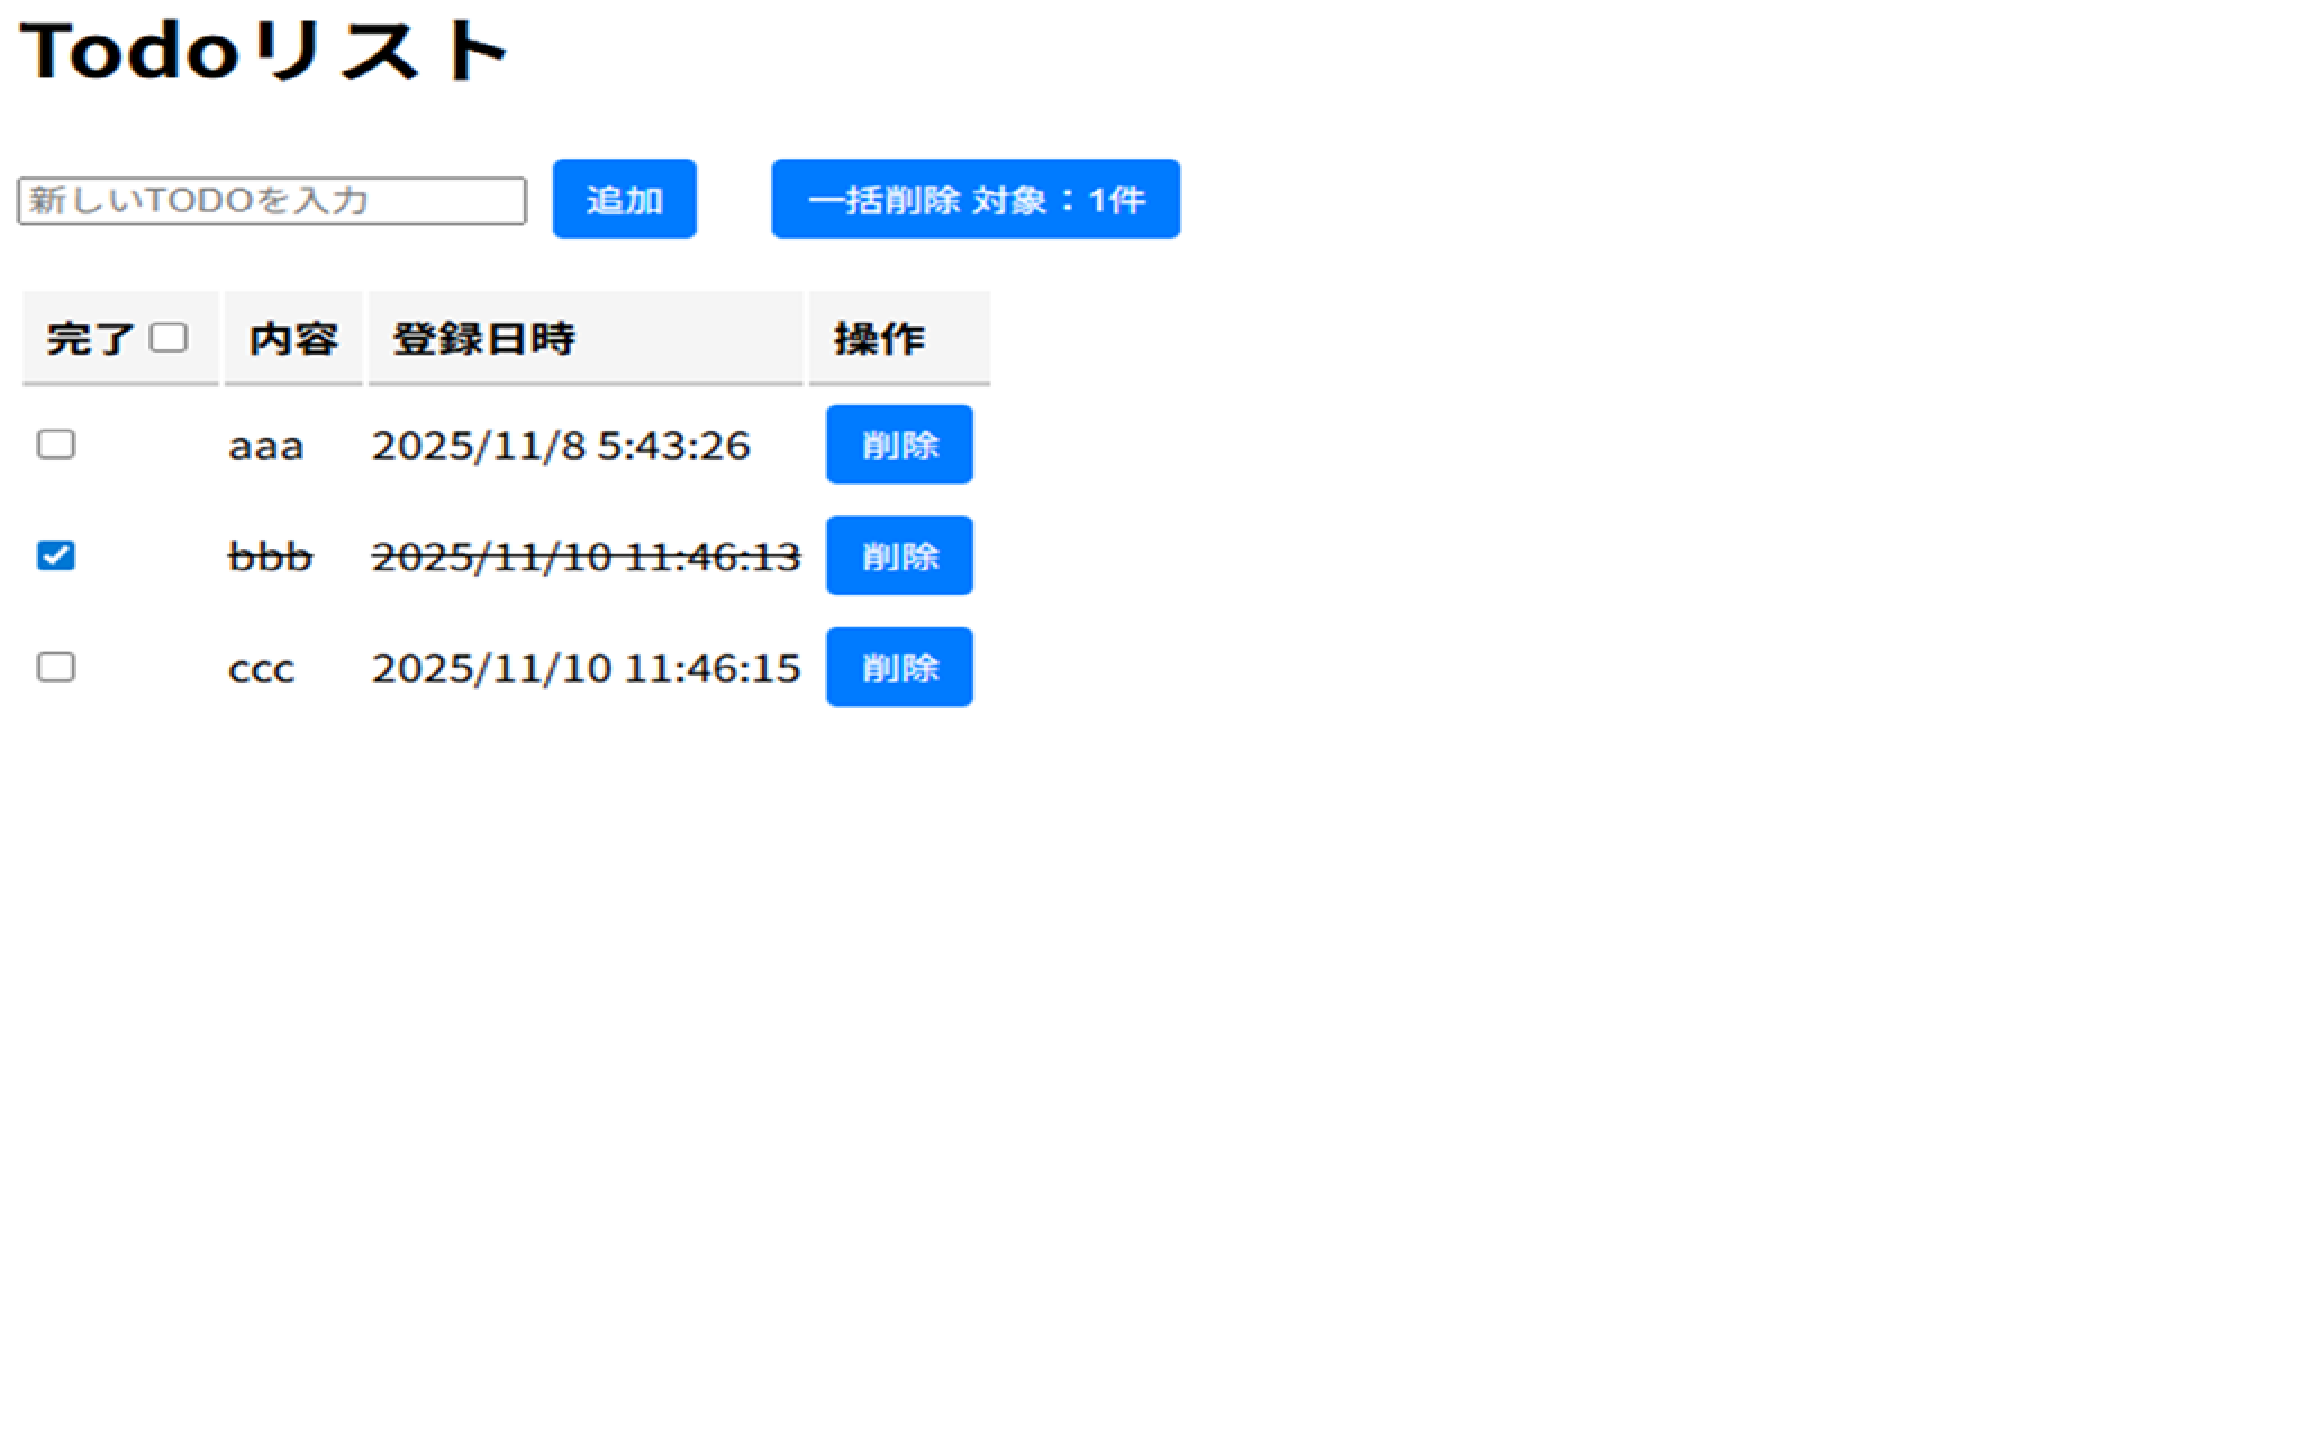
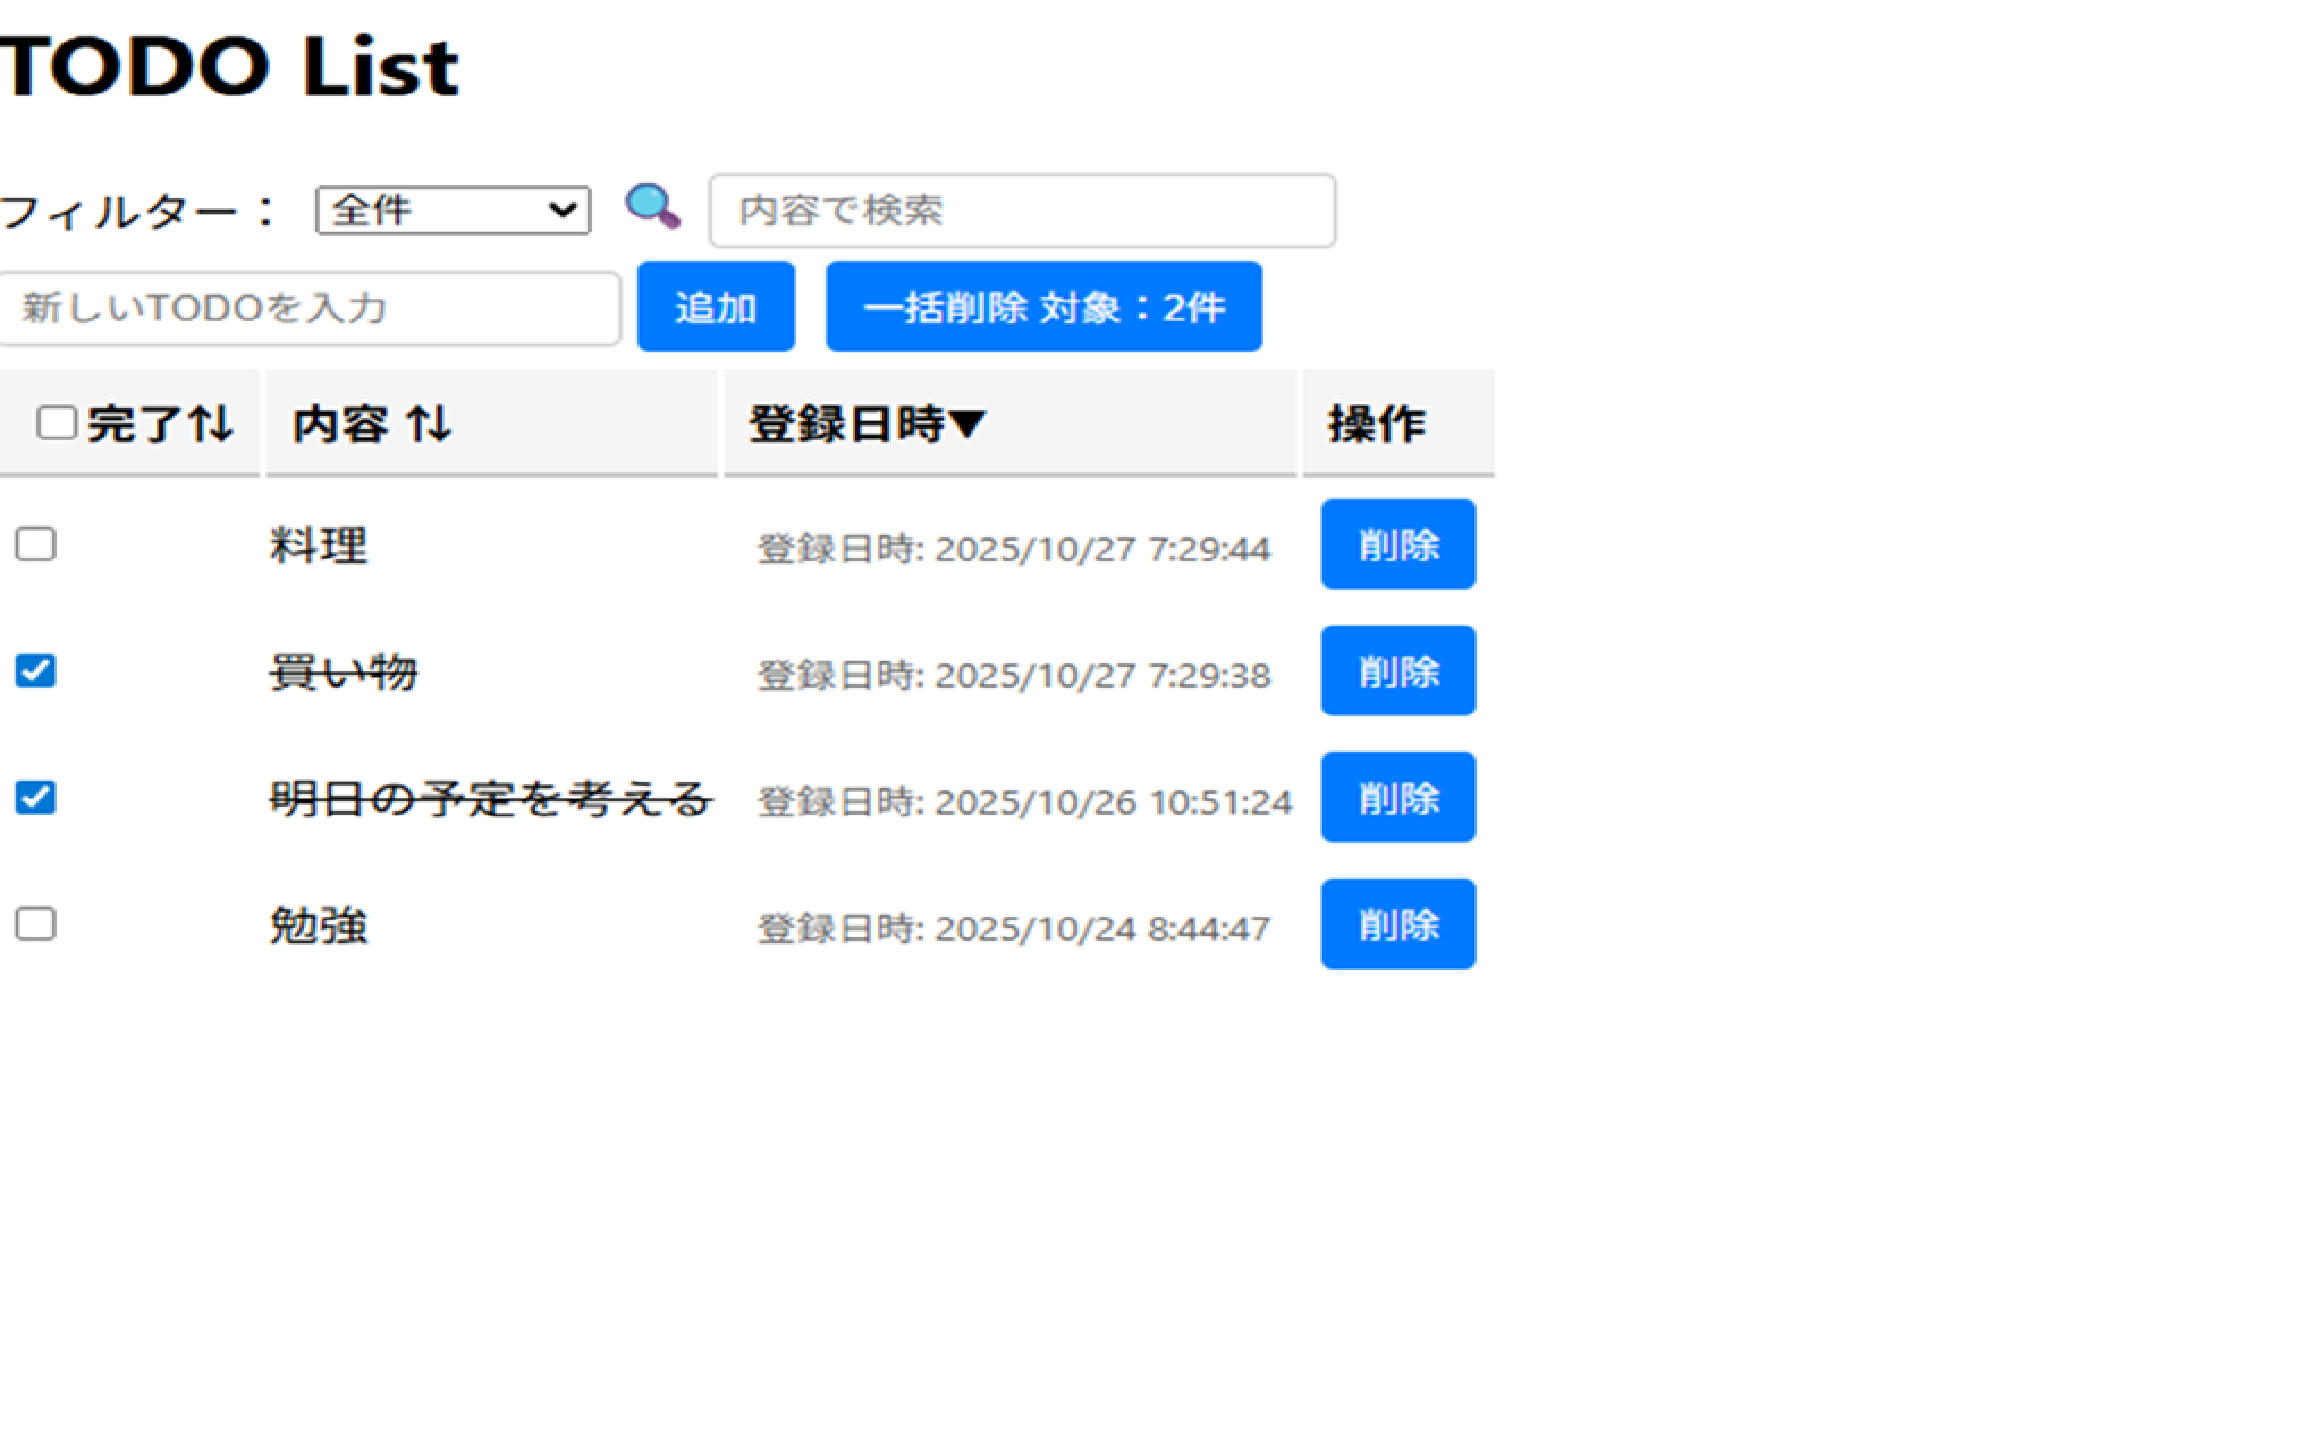
Add：フィルター機能の追加

diff --git a/js/TodoList.js b/js/TodoList.js
@@ -1,13 +1,16 @@
 // js/TodoList.js
 
+// 編集中のTODOのIDを保持
 let isEditingId = 0;
+let filterIsDone = null; // null: 全件, 0: 完了済み, 1: 未完了
+let filterText = ""; // テキストフィルター用
 
 // TODOリストの取得と表示
 async function fetchTodos() {
   try {
     const res = await fetch("api/api.php", {
       method: "POST",
-      body: new URLSearchParams({ action: "list" }),
+      body: new URLSearchParams({ action: "list", filterIsDone, filterText }),
     });
     const todos = await res.json();
     updateHeaderCheckbox(todos); // ヘッダーチェックボックスの状態更新
@@ -92,7 +95,7 @@ async function addTodo(text) {
     method: "POST",
     body: new URLSearchParams({ action: "add", text }),
   });
-  isEditingId = 0;
+  isEditingId = 0; // 編集状態をリセット
   fetchTodos(); // TODOリストの取得と表示
 }
 
@@ -101,7 +104,7 @@ async function deleteTodo(id) {
     method: "POST",
     body: new URLSearchParams({ action: "delete", id }),
   });
-  isEditingId = 0;
+  isEditingId = 0; // 編集状態をリセット
   fetchTodos(); // TODOリストの取得と表示
 }
 
@@ -110,7 +113,7 @@ async function toggleTodo(id) {
     method: "POST",
     body: new URLSearchParams({ action: "toggle", id }),
   });
-  isEditingId = 0;
+  isEditingId = 0; // 編集状態をリセット
   fetchTodos(); // TODOリストの取得と表示
 }
 
@@ -119,7 +122,7 @@ async function updateTodo(id, text) {
     method: "POST",
     body: new URLSearchParams({ action: "update", id, text }),
   });
-  isEditingId = 0;
+  isEditingId = 0; // 編集状態をリセット
   fetchTodos(); // TODOリストの取得と表示
 }
 
@@ -163,22 +166,42 @@ function updateDoneCount(todos) {
 }
 
 // 一括削除ボタンクリック時の処理
-document.getElementById("bulk-delete-btn").addEventListener("click", async() => {
-  const confirmed = confirm("完了済みのタスクをすべて削除しますか？");
-  if (!confirmed) return;
+document
+  .getElementById("bulk-delete-btn")
+  .addEventListener("click", async () => {
+    const confirmed = confirm("完了済みのタスクをすべて削除しますか？");
+    if (!confirmed) return;
 
-  // 完了済みのIDを収集
-  const doneIds = Array.from(document.querySelectorAll(".todo.isdone")).map(
-    (el) => el.dataset.id
-  );
+    // 完了済みのIDを収集
+    const doneIds = Array.from(document.querySelectorAll(".todo.isdone")).map(
+      (el) => el.dataset.id
+    );
 
-  // サーバーに送信
-  await fetch("api/api.php", {
-    method: "POST",
-    body: new URLSearchParams({ action: "delete_done" }),
+    // サーバーに送信
+    await fetch("api/api.php", {
+      method: "POST",
+      body: new URLSearchParams({ action: "delete_done" }),
+    });
+    isEditingId = 0; // 編集状態をリセット
+    fetchTodos(); // TODOリストの取得と表示
   });
-  isEditingId = 0;
+
+// フィルターセレクト変更時の処理
+document.getElementById("filterSelect").addEventListener("change", (e) => {
+  FilterTodos_isdone(e.target.value);
+});
+// フィルター適用
+function FilterTodos_isdone(isdone) {
+  filterIsDone = isdone;
+  isEditingId = 0; // 編集状態をリセット
   fetchTodos(); // TODOリストの取得と表示
+}
+
+// テキストフィルター入力時の処理
+document.getElementById("textFilter").addEventListener("input", (e) => {
+  filterText = e.target.value;
+  isEditingId = 0;
+  fetchTodos();
 });
 
 fetchTodos(); // TODOリストの取得と表示

diff --git a/css/style.css b/css/style.css
@@ -24,9 +24,22 @@ button {
 }
 .button-row {
   display: flex;
+  flex-direction: column;
   gap: 1rem; /* ボタン間の余白 */
-  align-items: center;
+  /* align-items: center; */
   margin-bottom: 1rem;
+}
+
+/*  */
+.filter-area {
+  margin-bottom: 4px;
+}
+
+/*  */
+.input-area {
+  display: flex;
+  align-items: center;
+  gap: 8px;
 }
 
 #bulk-delete-btn {

diff --git a/TodoList.php b/TodoList.php
@@ -8,21 +8,41 @@
 </head>
 
 <body>
+
     <h1>Todoリスト</h1>
 
+    <!-- フィルター -->
     <div class="button-row">
+        <div class="filter-area">
+            フィルター：
+            <!-- フィルター　全件 / 完了 / 未完了 -->
+            <select id="filterSelect">
+                <option value="null">全件</option>
+                <option value="0">完了のみ</option>
+                <option value="1">未完了のみ</option>
+            </select>
+            <label>
+                🔍
+                <input type="search" id="textFilter" placeholder="キーワードで絞り込み">
+            </label>
+            <br>
 
-        <form id="addForm">
-            <!-- 📝 追加テキスト -->
-            <input type="search" name="text" placeholder="新しいTODOを入力" required>
-            <!-- ＋追加ボタン -->
-            <button type="submit">追加</button>
-        </form>
+        </div>
 
-        <!-- ❌ 一括削除ボタン -->
-        <button id="bulk-delete-btn">
-            一括削除 対象：<span id="done-count">0</span>件
-        </button>
+        <!-- 入力＋追加＋一括削除 -->
+        <div class="input-area">
+            <form id="addForm">
+                <!-- 📝 追加テキスト -->
+                <input type="search" name="text" placeholder="新しいTODOを入力" required>
+                <!-- ＋追加ボタン -->
+                <button type="submit">追加</button>
+            </form>
+
+            <!-- ❌ 一括削除ボタン -->
+            <button id="bulk-delete-btn">
+                一括削除 対象：<span id="done-count">0</span>件
+            </button>
+        </div>
     </div>
 
     <table>
@@ -36,8 +56,8 @@
         </thead>
         <tbody id="todoBody"></tbody>
     </table>
-
     <script src="js/TodoList.js"></script>
+
 </body>
 
 </html>

diff --git a/api/api.php b/api/api.php
@@ -20,13 +20,13 @@ switch ($action) {
     echo json_encode(['status' => 'ok']);
     break;
 
-    case 'delete_done':
+  case 'delete_done':
     $stmt = $db->prepare("DELETE FROM todos WHERE isdone = 1");
     $stmt->execute();
     echo json_encode(['status' => 'ok']);
     break;
 
-    case 'toggle':
+  case 'toggle':
     $stmt = $db->prepare("UPDATE todos SET isdone = NOT isdone WHERE id = ?");
     $stmt->execute([$_POST['id']]);
     echo json_encode(['status' => 'ok']);
@@ -45,7 +45,29 @@ switch ($action) {
     break;
 
   case 'list':
-    $todos = $db->query("SELECT * FROM todos ORDER BY id")->fetchAll(PDO::FETCH_ASSOC);
+    $filterIsDone = $_POST['filterIsDone'] ?? null;
+    $filterText = $_POST['filterText'] ?? '';
+
+    $sql = "SELECT * FROM todos WHERE 1";
+    $params = [];
+
+    if ($filterIsDone === "0") {
+      $sql .= " AND isdone = 1";
+    } elseif ($filterIsDone === "1") {
+      $sql .= " AND isdone = 0";
+    }
+
+    if ($filterText !== '') {
+      $sql .= " AND text LIKE ?";
+      $params[] = '%' . $filterText . '%';
+    }
+
+    $sql .= " ORDER BY id DESC";
+
+    $stmt = $db->prepare($sql);
+    $stmt->execute($params);
+    $todos = $stmt->fetchAll(PDO::FETCH_ASSOC);
+
     echo json_encode($todos);
     break;
 }
